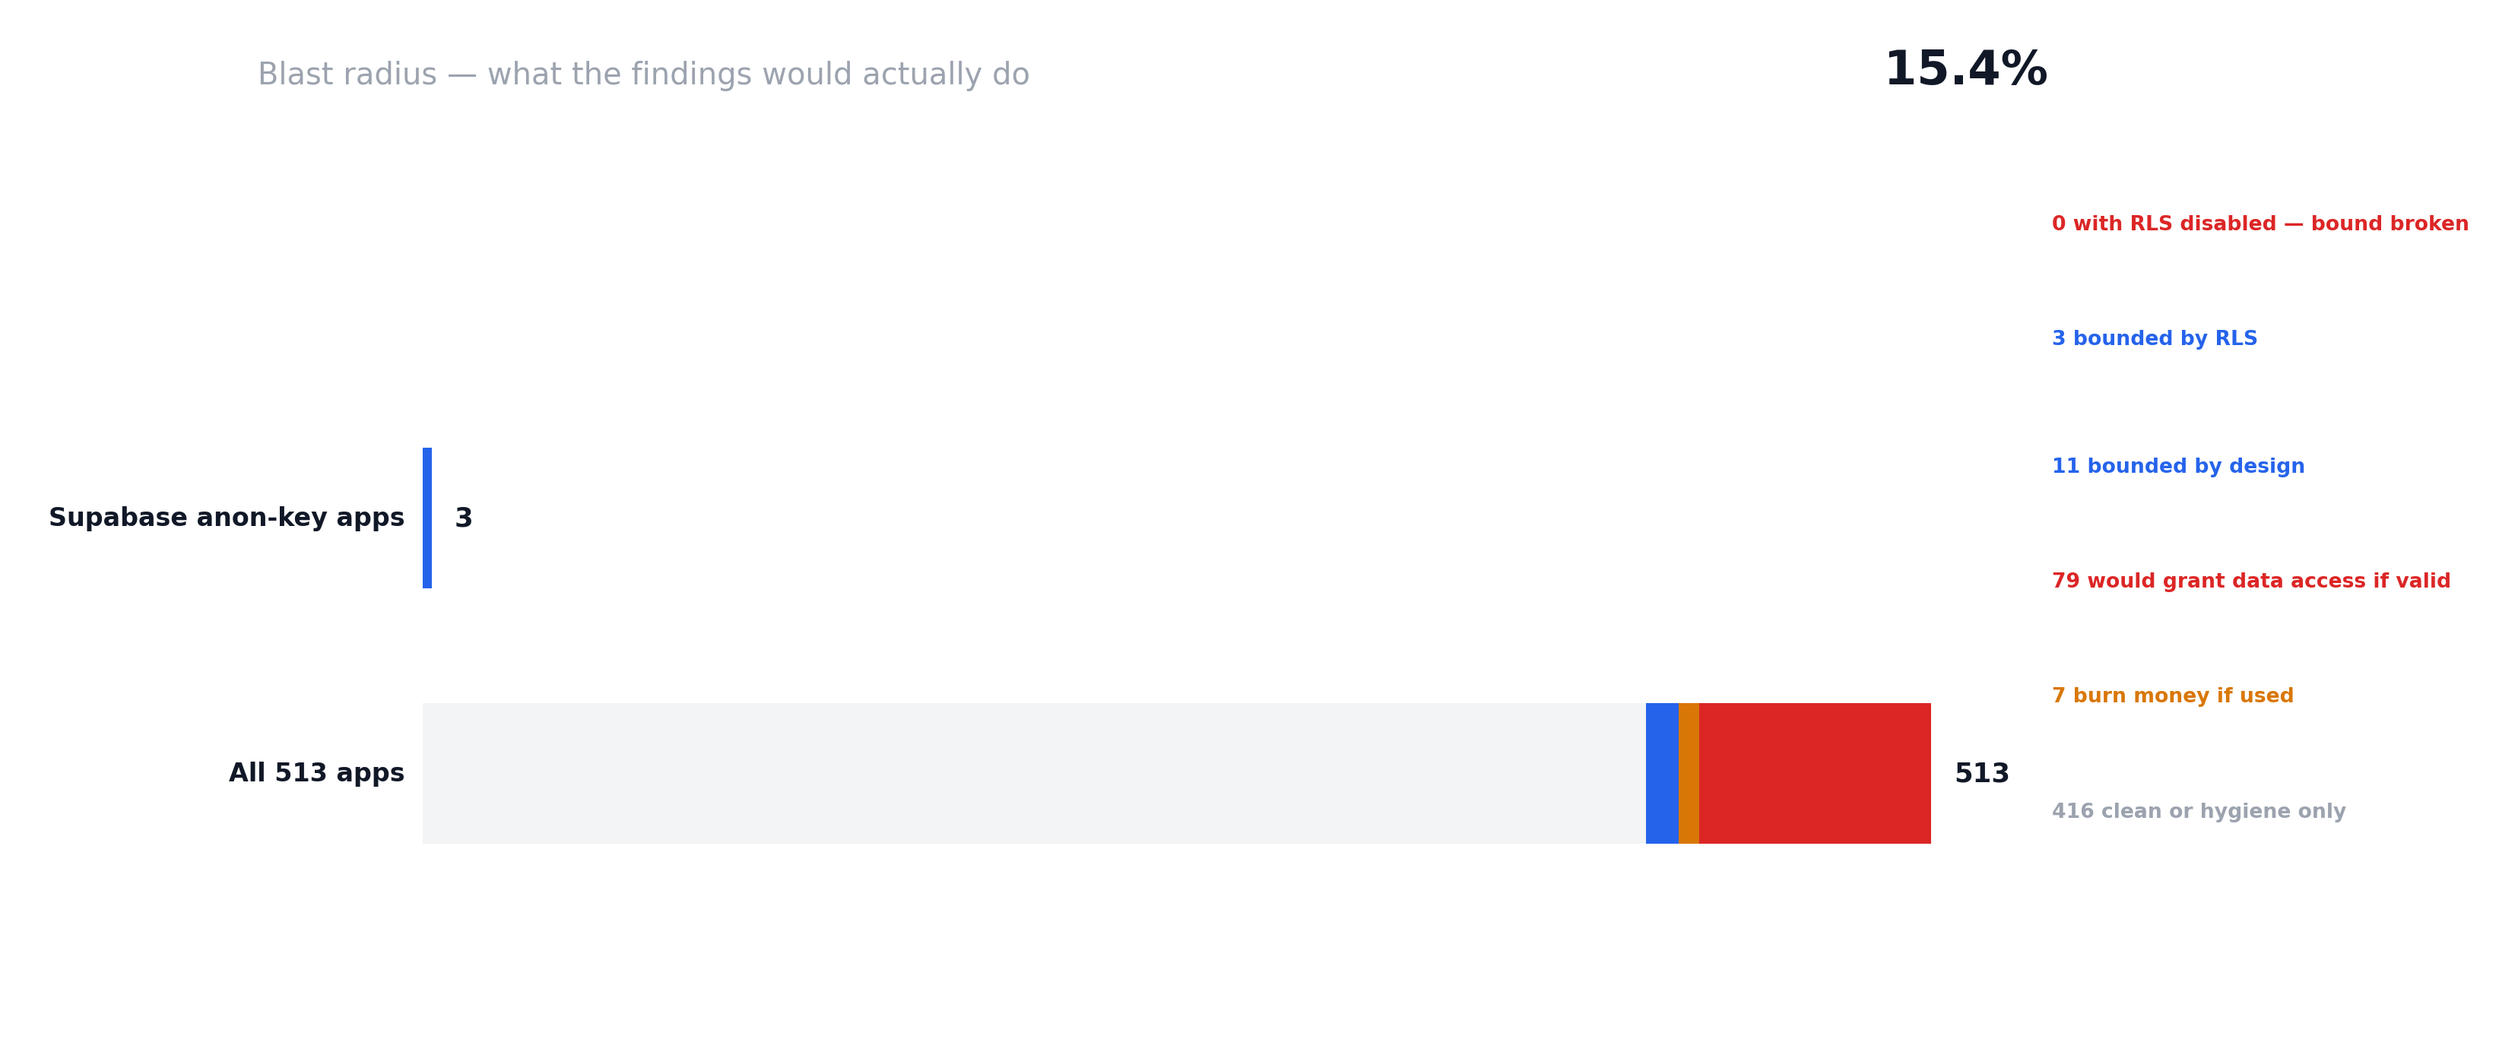
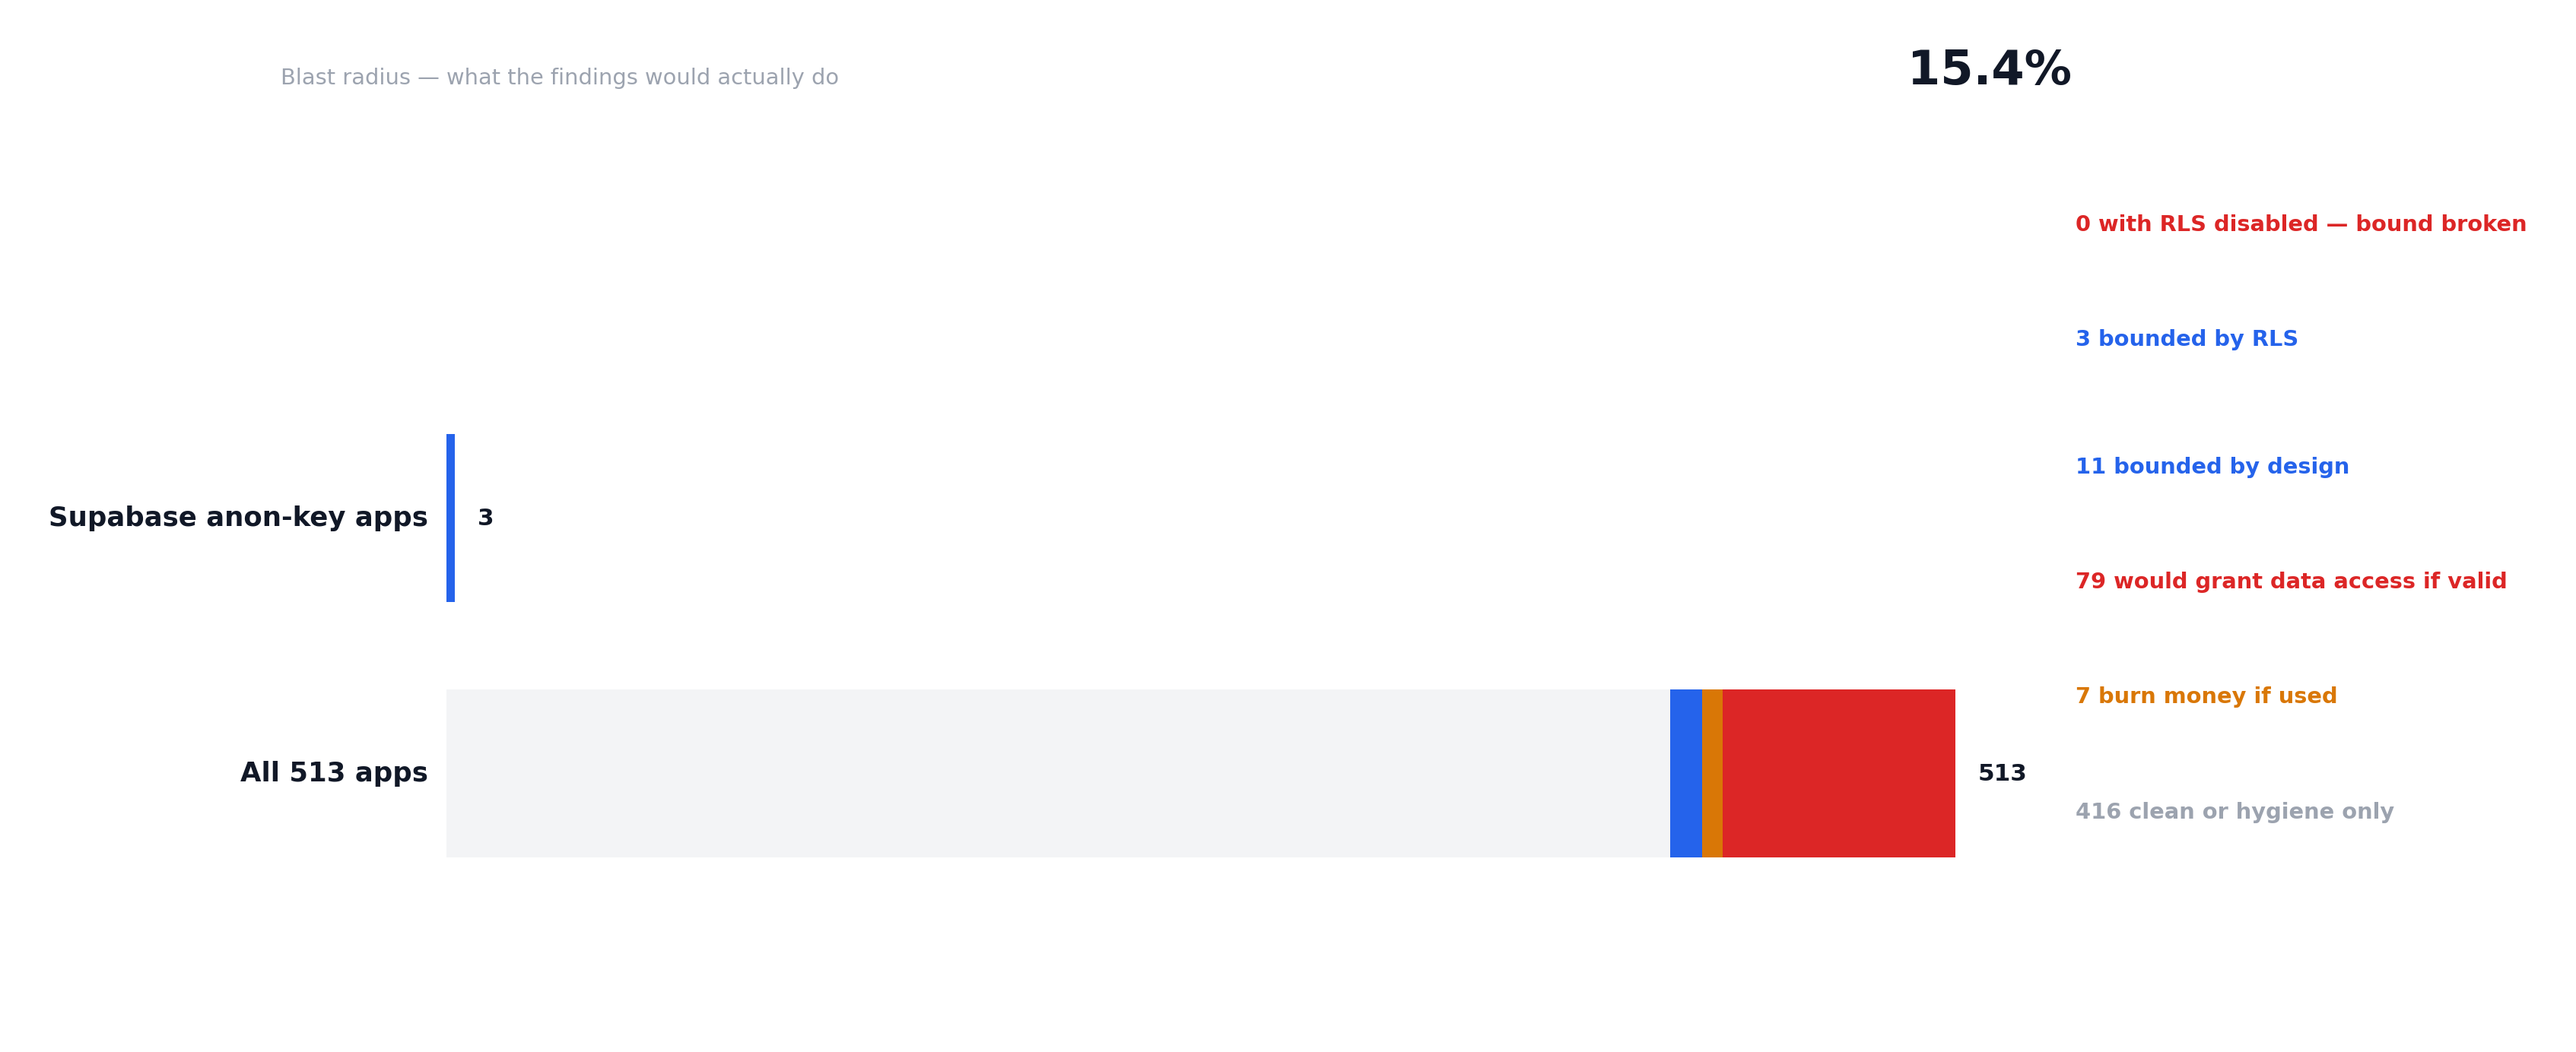
Charts: standardize text sizes across all chart functions
Unified type scale: title 13px, stat 28px, y-labels 16px, value labels
14px, legends 13px, bar height 0.66. Adjusted blast, scores, comparison,
verification, grades, locations, and market_census for consistency.
Re-rendered 07-blast.png for all three chart sets.

diff --git a/pipeline/generate_report.py b/pipeline/generate_report.py
@@ -180,7 +180,7 @@ def chart_grades(grades: Counter, clean_k: int, median: int, mean: float,
         ax.text(c + max_c * 0.008, y, label, va="center", fontsize=16,
                 color=GRAY_900, fontweight="700", fontfamily=_FONT)
     ax.set_yticks(ys)
-    ax.set_yticklabels([f"  {g}" for g in order], fontsize=20, color=GRAY_900,
+    ax.set_yticklabels([f"  {g}" for g in order], fontsize=16, color=GRAY_900,
                        fontweight="800", fontfamily=_FONT)
     ax.text(max_c * 1.15, len(order) - 0.35,
             f"{clean_k} apps perfectly clean  ·  median {median}  ·  mean {mean:.1f}",
@@ -245,14 +245,14 @@ def chart_verification(overturn, out: Path) -> None:
             pct = 100 * d / total
             if d:
                 ax.text(total + max_total * 0.015, y,
-                        f"{pct:.0f}% dropped", va="center", fontsize=13,
+                        f"{pct:.0f}% dropped", va="center", fontsize=14,
                         color=RED, fontweight="700", fontfamily=_FONT)
             else:
                 ax.text(k + max_total * 0.015, y, "0% dropped",
-                        va="center", fontsize=13, color=GREEN,
+                        va="center", fontsize=14, color=GREEN,
                         fontweight="700", fontfamily=_FONT)
     ax.set_yticks(ys)
-    ax.set_yticklabels(names, fontsize=14, color=GRAY_900, fontweight="500",
+    ax.set_yticklabels(names, fontsize=16, color=GRAY_900, fontweight="500",
                        fontfamily=_FONT)
     from matplotlib.patches import Patch
     ax.legend(
@@ -260,7 +260,7 @@ def chart_verification(overturn, out: Path) -> None:
             Patch(facecolor=BLUE, edgecolor="none", label="kept (real)"),
             Patch(facecolor=RED, edgecolor="none", label="dropped (false positive)"),
         ],
-        loc="upper right", frameon=False, fontsize=14,
+        loc="upper right", frameon=False, fontsize=13,
         labelspacing=0.8,
     )
     ax.text(0, -0.7, "361 findings adjudicated with surrounding code — "
@@ -343,7 +343,7 @@ def chart_scores(bands: dict, q1: int, median: int, mean: float,
     for x, c in zip(xs, counts):
         if c >= 10:
             ax.text(x, c + max(counts) * 0.015, str(c), ha="center",
-                    fontsize=12, color=GRAY_400, fontfamily=_FONT)
+                    fontsize=14, color=GRAY_400, fontfamily=_FONT)
     ax.axvline(median, color=GRAY_900, linestyle="--", linewidth=1.8, zorder=2)
     ax.text(median, max(counts) * 1.08, f"median {median}", fontsize=13,
             color=GRAY_900, fontweight="700", ha="center", fontfamily=_FONT)
@@ -386,14 +386,14 @@ def chart_blast(blast, out: Path) -> None:
         for size, color in segs:
             if size == 0:
                 continue
-            ax.barh(y, size, left=x, color=color, height=0.55, zorder=3)
+            ax.barh(y, size, left=x, color=color, height=0.66, zorder=3)
             x += size
         ax.text(-n * 0.012, y, label, ha="right", va="center",
-                fontsize=15, color=GRAY_900, fontweight="600",
+                fontsize=16, color=GRAY_900, fontweight="600",
                 fontfamily=_FONT)
         # Place count to the right of the bar to avoid overlap with label
         ax.text(total + n * 0.015, y, f"{total}", va="center", ha="left",
-                fontsize=16, color=GRAY_900, fontweight="800",
+                fontsize=14, color=GRAY_900, fontweight="800",
                 fontfamily=_FONT)
 
     # Place legend labels in a column to the right, spaced to avoid overlap
@@ -406,15 +406,15 @@ def chart_blast(blast, out: Path) -> None:
     ]
     for i, (count, color, text) in enumerate(legend_items):
         ax.text(legend_x, -0.15 + i * 0.45, f"{count} {text}", va="center",
-                fontsize=12, color=color, fontweight="700", fontfamily=_FONT)
+                fontsize=13, color=color, fontweight="700", fontfamily=_FONT)
 
     # Supabase-specific labels above the bars
     sup_x = n + n * 0.08
     ax.text(sup_x, 1.7, f"{bound['rls_enabled']} bounded by RLS",
-            va="center", fontsize=12, color=BLUE, fontweight="700",
+            va="center", fontsize=13, color=BLUE, fontweight="700",
             fontfamily=_FONT)
     ax.text(sup_x, 2.15, f"{bound['rls_disabled']} with RLS disabled — bound broken",
-            va="center", fontsize=12, color=RED, fontweight="700",
+            va="center", fontsize=13, color=RED, fontweight="700",
             fontfamily=_FONT)
 
     if bound["rls_disabled"]:
@@ -428,7 +428,7 @@ def chart_blast(blast, out: Path) -> None:
         )
     # Title and percentage on separate lines to avoid overlap
     fig.text(0.04, 0.95, "Blast radius — what the findings would actually do",
-             fontsize=18, color=GRAY_400, fontweight="500", fontfamily=_FONT)
+             fontsize=13, color=GRAY_400, fontweight="500", fontfamily=_FONT)
     fig.text(0.96, 0.95, f"{100 * a / n:.1f}%",
              fontsize=28, color=GRAY_900, ha="right",
              fontweight="800", fontfamily=_FONT)
@@ -460,7 +460,7 @@ def chart_locations(locs, out: Path) -> None:
         ax.text(max_total * 1.02, y, str(x), va="center", fontsize=13,
                 color=GRAY_500, fontweight="600", fontfamily=_FONT)
     ax.set_yticks(list(ys))
-    ax.set_yticklabels(order, fontsize=17, color=GRAY_900, fontweight="600",
+    ax.set_yticklabels(order, fontsize=16, color=GRAY_900, fontweight="600",
                        fontfamily=_FONT)
     from matplotlib.patches import Patch
     ax.legend(
@@ -527,7 +527,7 @@ def chart_comparison(pops, out: Path) -> None:
             _rounded_bar(ax, 0, y - bar_h / 2, bar_w, bar_h, color)
             # Place all labels at a fixed x position to avoid overlap
             ax.text(103, y, f"{val:.1f}",
-                    va="center", fontsize=12, color=GRAY_500,
+                    va="center", fontsize=14, color=GRAY_500,
                     fontweight="600", fontfamily=_FONT)
     ax.legend(
         handles=[Patch(facecolor=c, edgecolor="none", label=f"{l} (n={n})")
@@ -594,7 +594,7 @@ def chart_market_census(queries: dict, out: Path) -> None:
                 color=GRAY_900, fontweight="700", fontfamily=_FONT)
     ax.set_yticks(list(ys))
     ax.set_yticklabels([l.replace("built with ", "").replace("topic:", "topic·")
-                        for l, _ in items], fontsize=14, color=GRAY_900,
+                        for l, _ in items], fontsize=16, color=GRAY_900,
                        fontweight="500", fontfamily=_FONT)
     from matplotlib.patches import Patch
     ax.legend(
